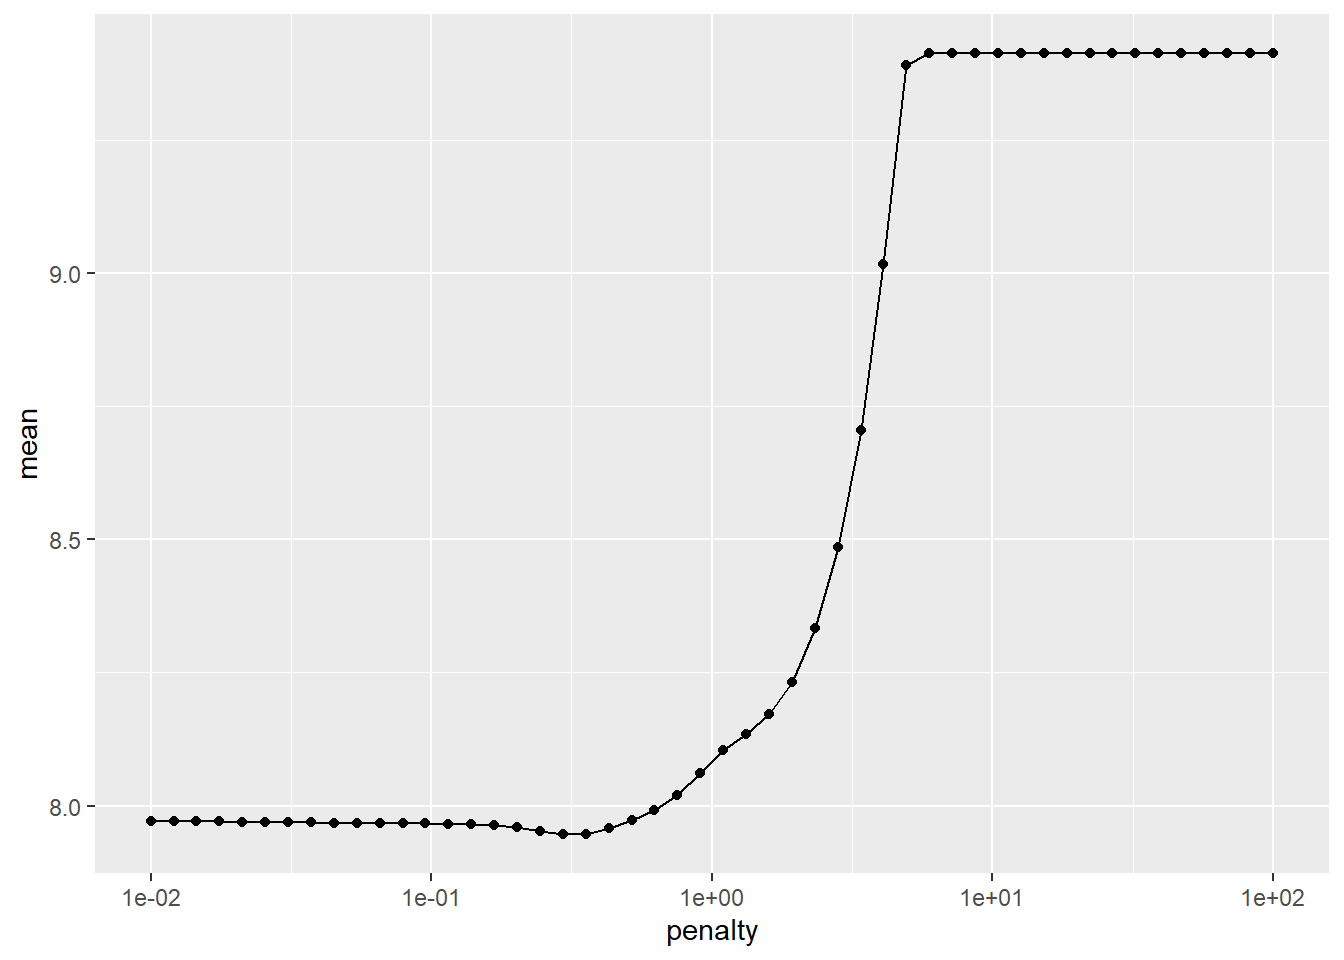
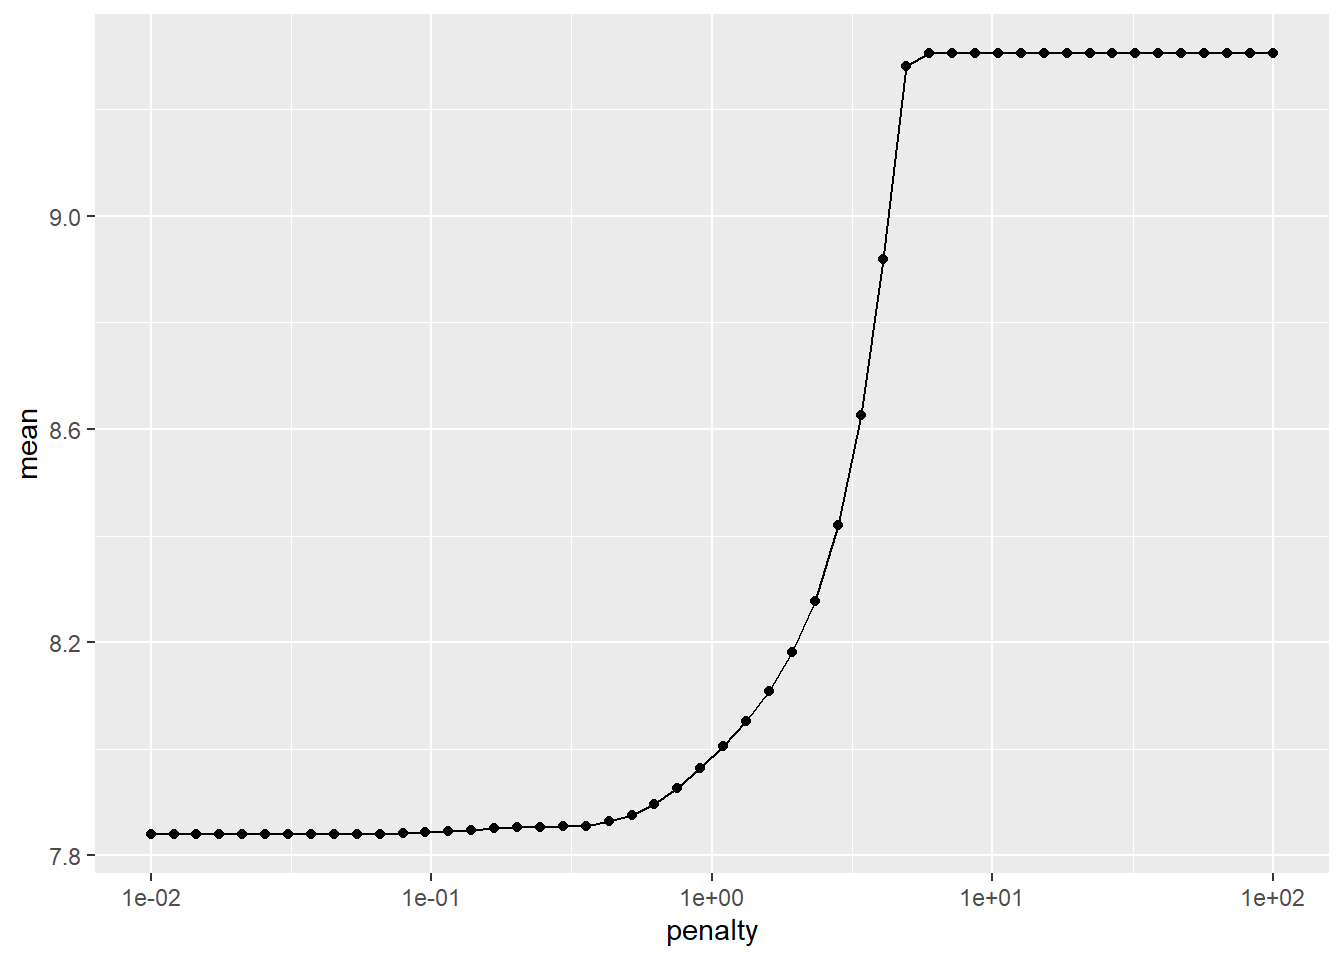
new lionk 10

diff --git a/docs/FinalProject.html b/docs/FinalProject.html
@@ -686,7 +686,7 @@ New names:
 <pre><code># A tibble: 1 × 2
   penalty .config              
     &lt;dbl&gt; &lt;chr&gt;                
-1   0.356 Preprocessor1_Model20</code></pre>
+1  0.0256 Preprocessor1_Model06</code></pre>
 </div>
 <div class="sourceCode cell-code" id="cb20"><pre class="sourceCode r code-with-copy"><code class="sourceCode r"><span id="cb20-1"><a href="#cb20-1" aria-hidden="true" tabindex="-1"></a>lasso_wflow_final <span class="ot">&lt;-</span> kcc_lasso_wflow <span class="sc">|&gt;</span></span>
 <span id="cb20-2"><a href="#cb20-2" aria-hidden="true" tabindex="-1"></a>  <span class="fu">finalize_workflow</span>(<span class="at">parameters =</span> lasso_best) </span></code><button title="Copy to Clipboard" class="code-copy-button"><i class="bi"></i></button></pre></div>
@@ -703,16 +703,16 @@ New names:
 <pre><code># A tibble: 10 × 3
    term        estimate penalty
    &lt;chr&gt;          &lt;dbl&gt;   &lt;dbl&gt;
- 1 (Intercept)   27.8     0.356
- 2 PtA            0       0.356
- 3 FirstD         0.707   0.356
- 4 TotYd          3.70    0.356
- 5 PassY          0       0.356
- 6 RushY          0.804   0.356
- 7 FirstD_Alwd    1.15    0.356
- 8 TotYd_Alwd     0       0.356
- 9 PassY_Alwd     0.521   0.356
-10 RushY_Alwd    -0.243   0.356</code></pre>
+ 1 (Intercept)   27.8    0.0256
+ 2 PtA           -0.956  0.0256
+ 3 FirstD         1.09   0.0256
+ 4 TotYd          3.88   0.0256
+ 5 PassY          0      0.0256
+ 6 RushY          0.961  0.0256
+ 7 FirstD_Alwd    2.04   0.0256
+ 8 TotYd_Alwd     0      0.0256
+ 9 PassY_Alwd     0.792  0.0256
+10 RushY_Alwd    -0.493  0.0256</code></pre>
 </div>
 </div>
 <p>Here we can see that important variables include Points Allowed (PtA), First Down Count (FirstD), Total Yards (TotYd), total Rusing Yards (RushY), First Downs Allowed (FirstD_Alwd), Passing Yards Allowed (PassY_Alwd) and Rushing Yards Allowed (RushY_Alwd). We will proceed to use these variables in our following models.</p>
